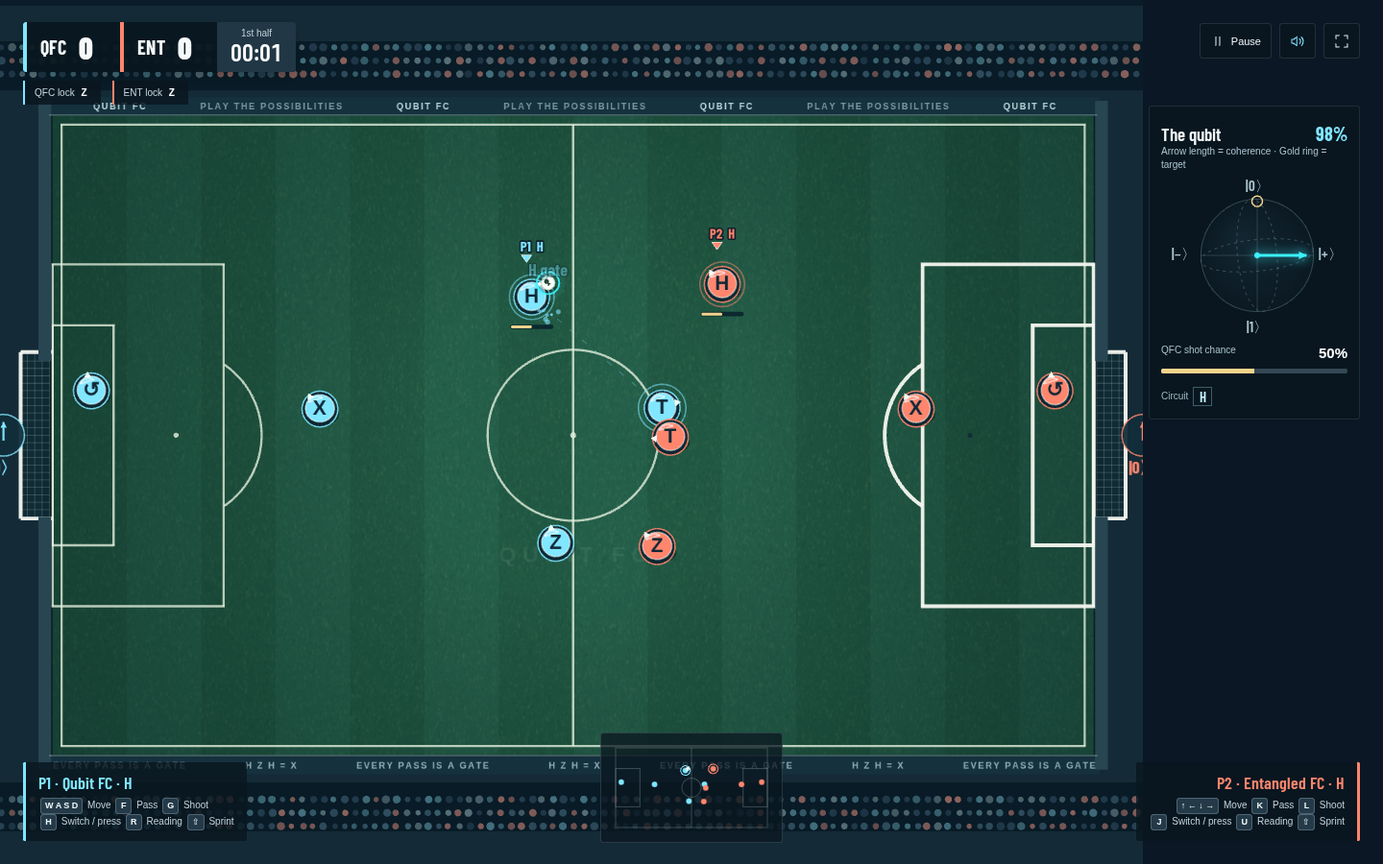
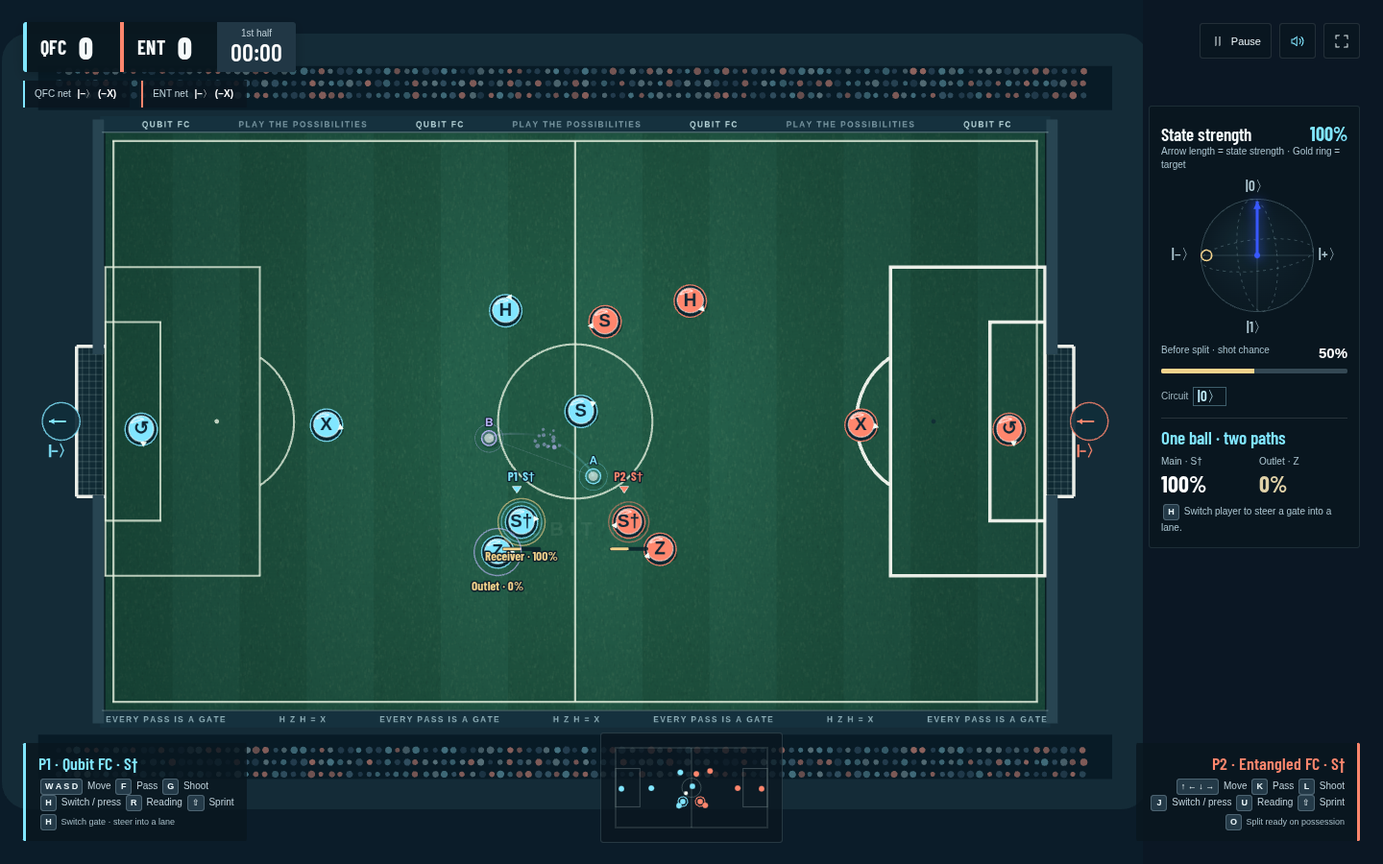
Polish six-player kickoff spacing and document quantum split play

diff --git a/src/game/scene.js b/src/game/scene.js
@@ -336,7 +336,8 @@ export class PitchScene extends Phaser.Scene {
     if (event.type === 'gate' || event.type === 'laneGate') {
       const view = this.playerViews.get(event.player);
       if (view && !reduced) this.tweens.add({ targets: view.glyph, scaleX: 1.4, scaleY: 1.4, duration: 110, yoyo: true, ease: 'Back.Out' });
-      const gateText = event.gate === 'S' ? 'S · phase +90°' : event.gate === 'S†' ? 'S† · phase −90°' : event.gate === 'T' ? 'T · phase +45°' : `${event.gate} gate`;
+      let gateText = event.gate === 'S' ? 'S · phase +90°' : event.gate === 'S†' ? 'S† · phase −90°' : event.gate === 'T' ? 'T · phase +45°' : `${event.gate} gate`;
+      if (event.type === 'gate' && ['S', 'S†', 'T'].includes(event.gate) && event.stateBefore && Math.hypot(event.stateBefore.x, event.stateBefore.y) < 0.001) gateText = `${event.gate} · state unchanged`;
       this.floatingText(event.x, event.y - 40, event.gate === 'RESET' ? '|0〉 reset' : `${gateText}${event.type === 'laneGate' ? ` · lane ${event.path ? 'B' : 'A'}` : ''}`, HEX[event.team], 23);
       this.burst(event.x, event.y, color, reduced ? 3 : 9, 80);
     }

diff --git a/index.html b/index.html
@@ -4,7 +4,7 @@
     <meta charset="UTF-8" />
     <meta name="viewport" content="width=device-width, initial-scale=1.0" />
     <meta name="theme-color" content="#0b1724" />
-    <meta name="description" content="Qubit FC — fast local five-a-side football where every pass is a quantum gate. Build your state. Beat the keeper. Make the measurement." />
+    <meta name="description" content="Qubit FC — fast local six-a-side football where every pass is a quantum gate. Build your state. Beat the keeper. Make the measurement." />
     <link rel="icon" type="image/svg+xml" href="/favicon.svg" />
     <title>Qubit FC — Every pass changes the game</title>
   </head>

diff --git a/src/game/simulation.js b/src/game/simulation.js
@@ -159,6 +159,7 @@ export class Match {
       // Both teams start in their own half, giving the first pass breathing room.
       if (player.role !== 'GK') {
         player.x = direction > 0 ? Math.min(home.x, PITCH.cx - 160) : Math.max(home.x, PITCH.cx + 160);
+        if (player.role === 'FWD') player.x = PITCH.cx - direction * 85;
       }
       player.vx = 0; player.vy = 0; player.fx = direction; player.fy = 0;
       player.charge = 0; player.dive = 0; player.cooldown = 0;

diff --git a/README.md b/README.md
@@ -1,8 +1,8 @@
 # Qubit FC
 
-Five-a-side football. Every completed pass is a quantum gate.
+Six-a-side football. Every completed pass is a quantum gate.
 
-Two teams, ten players, one qubit. Build the ball's state through passing, protect it from pressure, and aim for the defending keeper's measurement lock. Football skill gets the shot past the keeper; the Born rule decides whether it counts.
+Two teams, twelve players, one qubit. Build the ball's state through passing, protect it from pressure, and aim for the defending keeper's measurement lock. Football skill gets the shot past the keeper; the Born rule decides whether it counts.
 
 ![Qubit FC match with gate players, live Bloch sphere, keeper locks and broadcast HUD](docs/screenshots/match.png)
 
@@ -23,12 +23,15 @@ Standard matches have two three-minute halves. The showcase setting uses one-min
 | --- | --- | --- | --- |
 | Move / aim pass | W A S D | Arrow keys | Left stick / D-pad |
 | Pass | F | K | A / Cross |
+| Split through-ball | Q | O | LB / L1 |
 | Hold, then release to shoot | G | L | B / Circle |
-| Switch defender / call press | H | J | X / Square |
+| Switch defender / press / split support | H | J | X / Square |
 | Switch your keeper's reading | R | U | Y / Triangle |
 | Sprint | Left Shift | Right Shift | RT / RB |
 
-Pass in the direction you face; a dashed line previews the best teammate. Control moves to the receiver. Your selected player has an arrow, a scoring probability bar, and a charging shot bar. Every team has an X defender, H and Z midfielders, a T striker, and a keeper who resets the qubit.
+Pass in the direction you face; the preview identifies the best teammate and the scoring odds after that teammate's gate. It helps plan the circuit, while defenders and pressure can still change the outcome before reception. Control moves to the receiver. Your selected player has an arrow, a scoring probability bar, and a charging shot bar. Every team has six players: a keeper who resets the qubit, an X defender, H and Z midfielders, and S and S† attackers.
+
+The split through-ball has a six-second cooldown. It sends two ghost lanes toward the best outfield receiver, with an alternate teammate as the other possible outlet. During the split, tap switch (H / J / controller X) to cycle eligible gate teammates, then move the selected player into either ghost lane. Gate players touching a lane change that lane's quantum evolution. A defender touching a ghost measures which path the ball takes; the defender either wins that path or the other lane survives. When both lanes reach the junction, interference decides which of two outlets receives the ball. Control automatically follows the real ball after path collapse or output selection.
 
 ## Quantum model
 
@@ -38,26 +41,36 @@ The ball is a Bloch vector **r**, including mixed states inside the unit sphere.
 P(goal) = (1 + r · n) / 2
 ```
 
-For a pure state, this is exactly `cos²(theta/2)`. North against the north lock scores with certainty; south never scores. The center gives 50% against every lock.
+For a pure state, this is exactly `cos²(theta/2)`. North against a north lock scores with certainty; south against that same lock never scores. The center gives 50% against every lock. Arrow length is **state strength**: the length of the Bloch vector, which distinguishes pure states from mixed states. It is not a general measure of quantum coherence; a full-length north or south state has no off-diagonal coherence in the Z basis.
+
+Each net starts with a randomly selected target: `|0〉` (+Z), `|1〉` (−Z), `|+〉` (+X), or `|−〉` (−X). After every scored goal, the targets are selected again with the previous target excluded. Read the net glyph before building an attack.
 
 - **X:** `(x, y, z) → (x, −y, −z)`.
 - **H:** `(x, y, z) → (z, −y, x)`.
 - **Z:** `(x, y, z) → (−x, −y, z)`.
-- **T:** rotate about z by π/4. The math module also supports S, a π/2 rotation.
-- **Pressure:** a depolarizing channel continuously shortens r. Gates preserve length, so passing cannot repair it.
+- **S:** rotate about z by +π/2, a **+90° phase change**: `(x, y, z) → (−y, x, z)`.
+- **S†:** the inverse −π/2 rotation: `(x, y, z) → (y, −x, z)`. S followed by S† restores any input state. Both leave north and south at their poles; phase gates matter when the state has transverse components.
+- **Pressure:** a depolarizing channel continuously shortens r. Gates preserve length, so ordinary gate passes cannot repair it.
 - **Turnover:** a projective Z measurement erases phase and returns north or south according to the current Born probability.
 - **Keeper reception / kickoff:** reset to fresh north.
-- **Keeper reading:** rotate the lock between +Z and +X over two seconds. Rotation pauses inside the defending penalty box. The globe's hollow gold marker and goal glyph show the current axis, including partial rotations.
-- **Shot:** physical contact and keeper saves occur first. A ball entering the goal then gets a half-second measurement beat, snapping to the positive or negative lock axis before the result.
+- **Keeper reading:** rotate between Z and X over two seconds while preserving the target's sign: `|0〉 ↔ |+〉` or `|1〉 ↔ |−〉`. Rotation pauses inside the defending penalty box. The globe's hollow gold marker and goal glyph show the current target, including partial rotations.
+- **Shot:** physical contact and keeper saves occur first. A ball entering the goal then gets a half-second measurement beat. Success collapses to the target; rejection collapses to its opposite and rebounds into play. A failed measurement is not a keeper reset.
+- **Split pass:** a separate path qubit is coupled to the ball qubit. Conditional lane gates, path measurements, and a final two-port interferometer operate on their joint density matrix. The probability of the two output ports sums to one; destructive interference at one outlet routes probability to the other.
 
-Two useful routes, starting from a fresh north state:
+Useful routes, starting from a fresh north state:
 
 | Reception sequence | Result |
 | --- | --- |
 | H → Z → H | South, identical to X. Reveals how phase changes later outcomes. |
-| H → T → H → T → Z → T → Z | `x = z = 1/√2`, `y = 0`: 85.36% against either fixed keeper reading. |
+| H → S → S† | +X. S turns toward +Y, then S† restores the pre-S state. |
+| H → S | +Y, giving 50% against either X or Z target. |
+| S → H | +X. The same gates in a different order give a different result. |
 
-The hedge falls toward 50% under pressure. H → T → H alone is **not** an X/Z hedge: its X probability is 50%. Only receptions apply gates; dribbling leaves the state unchanged. Intermediate teammates also count, so plan the entire passing route.
+Ordinary passes apply gates on reception; dribbling leaves the state unchanged. Intermediate teammates also count, so plan the entire passing route. X, H, Z, S, and S† are Clifford gates: ordinary passing from fresh north reaches only the six Pauli poles, so it cannot prepare the old 85.36% X/Z hedge. The quantum library retains verified T (+45°) math, but there is no T player.
+
+Advanced split play can reach additional states: a conditional H on one lane followed by the bright-port outcome can produce `x = z = 1/√2` from north, before the receiving player's gate. That is an 85.36% hedge against the positive X/Z target pair. Conditional-H is a non-Clifford operation on the combined path–ball system; account for the receiver's gate before shooting.
+
+**Gate drill** starts with an outfield player holding a fresh north ball and a fixed south `|1〉` goal target. Three passes follow H → Z → H; each receiver faces the next player, so repeated pass presses teach the circuit. A wrong gate restarts the setup. Shoot with the south state to complete the one-goal drill. Normal matches then restore randomly changing net targets.
 
 ## Build and checks
 
@@ -73,7 +86,7 @@ The production build is in `dist/`. Serve it over HTTP with `npm run preview` or
 
 | File | Responsibility |
 | --- | --- |
-| `src/game/quantum.js` | Pure Bloch-vector gates, measurements and channels |
+| `src/game/quantum.js` | Bloch-vector gates, measurements, channels and path–ball density matrices |
 | `src/game/simulation.js` | Fixed-step football, AI, match lifecycle and stats |
 | `src/game/scene.js` | Procedural stadium, players, ball, camera, globe and radar |
 | `src/input.js` | Two-player keyboard/gamepad controls, claims and input edges |
@@ -92,6 +105,6 @@ All primary gameplay code, pitch graphics, player/ball visuals, icons and synthe
 
 ## Scope
 
-The playable core includes local multiplayer, solo practice, spectator mode, five-player formations, gate passes, pressure, goalkeeper readings, collapse/reset, physical saves, measurement shots, two halves, stats, tutorials, audio and accessibility settings. The spatial split through-ball remains a stretch feature; a single Bloch vector cannot honestly represent its two-lane interference, so it needs a separate spatial state model.
+The playable game includes local multiplayer, solo practice, spectator mode, the HZH gate drill, six-player formations, pass previews, gate passes, pressure, randomly changing signed goal targets, goalkeeper readings, collapse/reset, physical saves, measurement shots and rebounds, split through-balls with controllable gate support, two halves, stats, tutorials, audio and accessibility settings. Split passes use a separate spatial path state coupled to the ball qubit; their interference is not represented by a single Bloch arrow.
 
 See [design notes](docs/DESIGN.md) for the model and visual direction, and [showcase guide](docs/SHOWCASE.md) for a short demonstration plan.

diff --git a/docs/DESIGN.md b/docs/DESIGN.md
@@ -1,19 +1,37 @@
 # Qubit FC
 
-Fast local five-a-side football, where completed passes are quantum gates and shots are measurements. The four outfield roles carry X (defender), H and Z (midfielders), and T (striker). A keeper reception resets the state to north. Four outfield players means four gates per roster; S is supported by the math but the standard roster uses T so smaller phase rotations are possible.
+Fast local six-a-side football, where completed passes are quantum gates and shots are measurements. Each roster has a keeper, X defender, H and Z midfielders, and S and S† attackers. A keeper reception resets the state to north. Five outfield gate players provide more passing outlets and more support for moving into a split lane.
 
 ## Visual direction
 
-Indoor broadcast football: navy stadium `#0b1724`, deep green turf `#205a46`, alternate grass `#245f4a`, ice blue team `#81e6ff`, coral team `#ff866d`, chalk `#f4f6ef`. Barlow Condensed carries scoreboards, shirt glyphs and titles, with a plain system sans for instructions. A big wordmark sits over a living pitch on the title screen. During play, quiet broadcast panels leave the ball and player markings readable.
+Indoor broadcast football: navy stadium `#0b1724`, deep green turf `#205a46`, alternate grass `#245f4a`, ice blue team `#81e6ff`, coral team `#ff866d`, chalk `#f4f6ef`. Barlow Condensed carries scoreboards, shirt glyphs and titles, with a plain system sans for instructions. A big wordmark sits over a living pitch on the title screen. During play, quiet broadcast panels leave the ball and player markings readable. Dashed pass previews identify a receiver and their projected scoring odds; the preview assumes that player's gate is the next gate applied.
 
-## Model
+## Ball state and goals
 
-The qubit is a Bloch vector r. Gates rotate r without increasing its length. Pressure applies a depolarizing channel and shortens it. For a goal target n, scoring probability is `(1 + r · n) / 2`; pure states give `cos²(theta/2)`. A tackle/interception measures in Z and produces a fresh north or south state. Keepers reset to north. The defending keeper can rotate the goal's measurement axis from Z to X over two seconds; rotation freezes when the ball enters that penalty box.
+The ball's density matrix is `ρ = (I + r · σ) / 2`, displayed as Bloch vector r. Gates rotate r without increasing its length. Pressure applies a depolarizing channel and shortens it. Arrow length is **state strength**, or Bloch-vector length. It describes purity for a single qubit, rather than coherence in every basis: north and south are pure states with no off-diagonal coherence in the Z basis. During a split pass, the ball's reduced state can also become mixed through correlation with the path.
 
-The flip identity is H–Z–H = X. Starting from north, H–T–H–T–Z–T–Z gives a hedge with x = z = 1/√2, scoring roughly 85.4% against either X or Z. H–T–H alone does not hedge these axes: its x is zero and its phase lies along y. With Bloch vector length L, the true hedge scores with probability `0.5 + L/(2√2)` against either fixed lock. The ball cannot be perfect for both axes. Phase is visible in standard mode; expert mode hides the transverse components in the HUD, making the passing history matter.
+For a unit goal target n, scoring probability is `(1 + r · n) / 2`; pure states give `cos²(theta/2)`. Each net initially draws a random target from `|0〉` (+Z), `|1〉` (−Z), `|+〉` (+X), and `|−〉` (−X). Every scored goal rerolls the net targets with each previous target excluded. The keeper changes basis while retaining the sign: +Z ↔ +X or −Z ↔ −X. This takes two seconds and freezes when the ball enters that penalty box; the in-between glyph is the actual rotating target.
+
+A tackle or interception measures in Z and produces a pure north or south state, destroying the previous phase. Keeper reception and kickoff reset to fresh north. A physically successful shot measures along the net target after a half-second presentation beat. A counted goal collapses to that target. A rejected shot collapses to the opposite eigenstate and rebounds into the pitch for continued play; it does not grant a fresh north state or an automatic keeper catch.
+
+## Gates and teaching routes
+
+S rotates about Z by **+90°**; S† applies the inverse **−90°** rotation. Both leave north and south unchanged because relative phase matters when both basis amplitudes are populated. After H prepares +X, S turns it to +Y and S† returns it to +X. S followed by S† is the identity for arbitrary pure or mixed input states. Gate order matters: from north, H → S ends at +Y, while S → H ends at +X.
+
+The flip identity is H → Z → H = X. The gate drill begins with an outfield player carrying fresh north and a fixed south `|1〉` goal. Successive receivers are H, Z, and H; their default facing directions guide the three passes. A wrong gate restarts the drill. One measured goal completes it, before returning to the usual changing targets in normal matches.
+
+The ordinary roster uses Clifford gates X, H, Z, S, and S†. From fresh north, ordinary gate passing reaches only the six Pauli poles; it cannot prepare a pure midpoint hedge between X and Z. T remains a verified +45° rotation in the quantum library, with no player carrying it. Standard mode shows phase; expert mode hides transverse components in the HUD, making the passing history matter.
+
+## Split through-ball
+
+Q / O / LB creates two ghost paths and starts a six-second cooldown. The best outfield receiver is the intended outlet; another teammate is the alternate outlet. During the split, H / J / controller X cycles through eligible support players. The human can move a selected gate player into either ghost lane. Their gates act conditionally on the path, so two visible lane histories can produce different ball states before meeting at the junction. Once a path measurement or output selection resolves the real ball, control transfers automatically to its carrier.
+
+The quantum model uses a **path qubit ⊗ ball qubit** joint density matrix, starting from a coherent path superposition coupled to the current ball state. A lane gate has the form `|0〉〈0| ⊗ U₀ + |1〉〈1| ⊗ U₁`, with an identity on an untouched lane. This preserves the full joint state's trace. A defender touching one lane measures the path: the touched-path outcome gives that defender the ball, while the other outcome removes that ghost and leaves the other path. Revealing which path occurred removes interference between paths.
+
+At an intact junction, a final balanced path mixing operation creates two output ports. The model calculates each port's probability from the joint density matrix and samples a port; the corresponding conditional ball state is delivered to that outlet. The two probabilities sum to one. Destructive interference at the intended receiver increases the probability of the alternate outlet, rather than deleting the ball or losing probability. Ordinary gate passes preserve ball-state strength; conditioning on a path measurement is a different quantum operation and can change the reduced ball state.
+
+Controlled-H is non-Clifford on the combined path–ball system. From north, applying H to one lane and selecting the bright output can prepare `(x, y, z) = (1/√2, 0, 1/√2)` before the receiving gate: an 85.36% hedge against +X and +Z. This requires the specific path outcome and changes if another lane or receiving gate is applied. The ordinary-passing Clifford restriction does not apply to the full split mechanic.
 
 ## Implementation
 
-Vite and Phaser 3, with an independent fixed-step football model and pure quantum math. Phaser renders the pitch, players, ball, camera and event feedback. DOM overlays handle title, device joining, instructions, match HUD and results. Gamepad API and keyboard drive the same two-player input contract. Audio is synthesized with Web Audio; all field graphics are generated in code.
-
-The split through-ball is a stretch feature and is deferred until the core game has been played and tuned. It requires a spatial superposition model beyond the single-qubit Bloch vector.
+Vite and Phaser 3, with an independent fixed-step football model and pure quantum math. Phaser renders the pitch, players, ball, camera and event feedback. DOM overlays handle title, device joining, instructions, match HUD and results. Gamepad API and keyboard drive the same two-player input contract. Audio is synthesized with Web Audio; field graphics are generated in code. Split, conditional gate, recombination, path collapse, and rebound sounds attach to simulation events and never change the simulation.

diff --git a/docs/SHOWCASE.md b/docs/SHOWCASE.md
@@ -1,21 +1,34 @@
 # Qubit FC showcase
 
-Use showcase length (two one-minute halves) with Standard mode for a first explanation. The phase-hidden Expert setting is available once players know the gates. Two controllers are preferable; keyboard works with no setup.
+The finalist slot is **five minutes of live gameplay followed by three minutes of technical Q&A**. The submission also requires a separate **two-minute unedited gameplay recording**. These are distinct deliverables; see [event format](../about.md).
+
+Use Standard mode so the full globe is visible. Each six-player team has keeper, X, H, Z, S, and S†. Two controllers are preferable; both keyboard layouts work without setup. Select showcase length for two one-minute halves during the match portion. Expert mode can follow once the judge understands phase.
 
 ## Five-minute live session
 
-1. **30 seconds:** show the globe. North and south are definite outcomes; the hollow gold marker is the target. The arrow's direction sets scoring odds; its length tracks coherence.
-2. **90 seconds:** hand the judge a controller and play. A passes; holding B charges a shot. Emphasize that football positioning and physical saves still matter.
-3. **60 seconds:** reset through the keeper, then show H → Z → H. Z does not immediately change north-lock odds, but the second H turns its phase change into a full flip.
-4. **60 seconds:** switch the defending keeper from Z to X with Y. Switch takes two seconds and freezes in the box. A fresh north ball goes from 100% to 50% when the completed lock changes.
-5. **60 seconds:** linger close to a defender and watch the arrow shrink. Passes rotate but cannot repair it. Back-pass to the keeper for a fresh state, then attack again.
+| Time | Demonstration |
+| --- | --- |
+| 0:00–0:30 | Show the globe and net target. Arrow direction sets scoring odds; arrow length is state strength. Explain that a physical shot must beat the keeper before a measurement decides whether it counts. |
+| 0:30–1:30 | Run Gate drill. Start with fresh north against a fixed south net; three pass presses follow H → Z → H. After the first H, Z changes phase without changing Z odds; the final H converts that phase change into south. Shoot to finish the drill. |
+| 1:30–2:45 | Hand a controller to the judge and start a showcase match. A passes; hold and release B to shoot. Point out the receiver's projected odds in the pass preview and the random net targets. Every scored goal rerolls the targets, so check the glyph again. |
+| 2:45–3:30 | Prepare an equatorial state with H, then pass S → S† to show +90° and −90° phase rotations restoring the input state. Emphasize that gate order changes later outcomes. Switch the defending keeper with Y: +Z becomes +X, or −Z becomes −X, over two seconds; it freezes in the box. |
+| 3:30–4:15 | Hold the ball near a defender and show the arrow shortening and odds drifting toward 50%. A keeper back-pass restores fresh north. If a shot fails measurement, follow its rebound: it now carries the opposite target state. |
+| 4:15–5:00 | Use LB for a split through-ball. Tap controller X to select a support gate and move it into a ghost lane. Show the junction's chosen output and automatic control transfer. A defender touching a ghost demonstrates path measurement. A dark intended outlet sends the ball to the alternate outlet; total probability is conserved. |
 
-## A deliberate hedge
+Keep the quantum explanations tied to visible actions. Gate drill guarantees an understandable HZH circuit; the match then shows the pressure, target, and spatial decisions under real play.
 
-Starting from north, receive at H, T, H, T, Z, T, Z. The arrow ends midway between +X and +Z, and either fixed target gives 85.36%. Extra receptions change the circuit. Under pressure, the odds decrease toward 50%. This is a longer, advanced route; the keeper switch alone already demonstrates incompatible measurement axes.
+## Three-minute technical Q&A
 
-## Two-minute unedited recording
+Be ready to show these implementation details:
 
-Use the Standard globe and showcase clock. Keep the recording uncut. Demonstrate a gate combination, keeper switch and pressure; attempt a goal. For a backup demonstration, Watch match runs both tactical teams automatically, with visible gates, saves, measurement failures and match statistics.
+- **Single ball:** `ρ = (I + r · σ)/2`, with `P(goal) = (1 + r · n)/2`. Pressure shortens r; gate rotations preserve its length.
+- **State strength:** Bloch length is a purity indicator for a single qubit. It is not interchangeable with basis-dependent off-diagonal coherence.
+- **Inverse gates and order:** S is +90° about Z; S† is −90°. S → S† restores the state, and neither changes a pole. H → S and S → H produce different results from north. The ordinary Clifford roster cannot prepare an X/Z midpoint hedge from north; verified T math stays in the library without a T player.
+- **Measurements:** tackles use Z; net shots use the signed current target. Rejected net measurements rebound with the opposite eigenstate. Keeper reception explicitly resets to north.
+- **Spatial interference:** a joint path–ball density matrix supports conditional gates, path projection, and a two-port readout with probabilities summing to one. A single Bloch vector cannot represent both coherent paths. Conditional-H is non-Clifford on this joint system; a bright-port outcome can prepare a diagonal state before the receiver's gate.
 
-Full-time statistics include goals, shots, possession, average shot alignment, rejected measurements, state lost to pressure, keeper saves and passes.
+## Separate two-minute unedited recording
+
+Record one continuous take with the Standard globe visible; do not cut or splice the gameplay. Start in Gate drill, complete H → Z → H and attempt the south goal. Continue into a showcase match, show the net glyph and pass preview, then demonstrate S → S† restoring a prepared equatorial state. Switch the keeper, show pressure, and use a split through-ball with controller X to move a support gate into a lane. Attempt another shot so the measurement beat and either a goal or collapsed-state rebound are visible. Explain what happens as you play; a missed physical shot still shows the football rules.
+
+Watch match provides an autonomous backup if a second player is unavailable. Gate drill provides the reliable circuit demonstration. Finish with match statistics when time permits: goals, shots, possession, alignment, rejected measurements, state lost to pressure, saves and passes.
